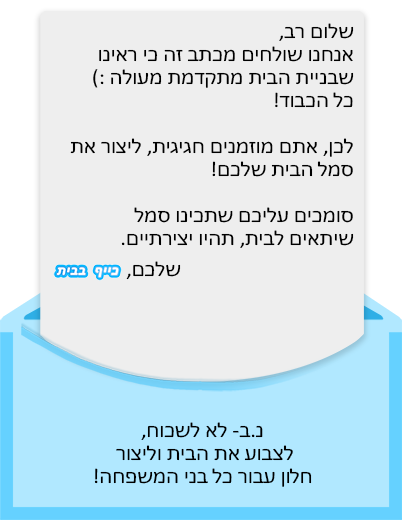
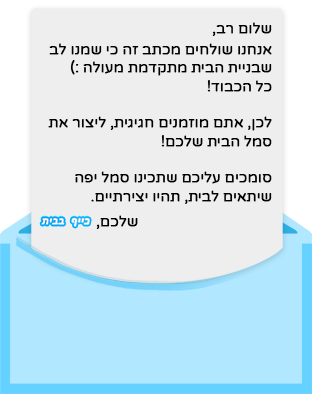
design changes

Changed region(s): [[0.0, 0.0305, 1.0, 0.7614], [0.2308, 0.7919, 0.7788, 0.9442]]

diff --git a/src/views/EditHome.vue b/src/views/EditHome.vue
@@ -1118,7 +1118,10 @@
     </AppDialog>
 
     <AppDialog ref="connectDialog">
+      <span @click="closeConnectPop" class="close-span-top"></span>
+      <img @click="closeConnectPop" class="connect-pic" src="@/assets/img/login-for-publish.png" alt=""/>
       <img @click="login" class="connectBtn" src="@/assets/img/connect-btn.png" alt=""/>
+      <span @click="closeConnectPop" class="close-span-bot"></span>
     </AppDialog>
 
     <AppTutorial ref="firstTutorial">
@@ -1303,9 +1306,7 @@ export default {
     },
     async saveHome(){
       if (!this.$store.getters.getIdToken) {
-        this.$refs.connectDialog.open({ 
-          title: 'כדי לשתף את הבית חובה להתחבר!',
-          content: ' ' })
+        this.$refs.connectDialog.open({hideBtns: true, content: ' ' })
         return
       } 
       else {
@@ -1375,6 +1376,9 @@ export default {
         content: ' '
       });
       this.handleMailMessage();
+    },
+    closeConnectPop(){
+      this.$refs.connectDialog.agree()
     },
     handleMailMessage() {
       if (this.isHomeComplete && !this.mailWasNotified) {
@@ -1589,9 +1593,29 @@ export default {
     margin-bottom: 2vh;
   }
 }
+.close-span-top {
+  // background-color: red;
+  position: fixed;
+  top: 0;
+  left: 0;
+  width: 100vw;
+  height: 32vh;
+}
+.close-span-bot {
+  // background-color: red;
+  position: fixed;
+  bottom: 0;
+  left: 0;
+  width: 100vw;
+  height: 38vh;
+}
 .connectBtn {
   height: 6vh;
-  margin: 17px;
+  margin-top: 15px;
+}
+.connect-pic{
+  height: 14vh;
+  margin-top: 15px;
 }
 .tutorial-top {
   position: fixed;
@@ -1659,8 +1683,9 @@ export default {
 .home-type {
   margin-bottom: 15px;
   .type-title {
-    height: 12vh;
-    margin: 15px;
+    width: 100%;
+    margin-top: 15px;
+    margin-bottom: 15px;
   }
   .home-kind {
     height: 18vh;
@@ -2040,37 +2065,42 @@ input{
 
 .windows-dialog {
   margin-top: 30px;
-  .agree,
-  .decline {
+  // .agree,
+  // .decline {
+  //   position: absolute;
+  //   bottom: -9vw;
+  //   width: 20vw;
+  //   max-width: 60px;
+  // }
+
+  .agree {
     position: absolute;
-    bottom: -9vw;
+    left: 32vw;
+    bottom: -5vh;
+    margin-top: 10px;
     width: 20vw;
     max-width: 60px;
   }
-
-  .agree {
-    right: -8vw;
-  }
-  .decline {
-    left: -8vw;
-  }
+  // .decline {
+  //   left: -8vw;
+  // }
 
   
 
-  @media (min-width: 720px) {
-    .agree,
-    .decline {
-      bottom: -6vw;
-      max-width: 80px;
-    }
+  // @media (min-width: 720px) {
+  //   .agree,
+  //   .decline {
+  //     bottom: -6vw;
+  //     max-width: 80px;
+  //   }
 
-    .agree {
-      right: -4vw;
-    }
-    .decline {
-      left: -4vw;
-    }
-  }
+  //   .agree {
+  //     right: -4vw;
+  //   }
+  //   .decline {
+  //     left: -4vw;
+  //   }
+  // }
 }
 
 .window-name-btns {
@@ -2208,7 +2238,7 @@ input{
   position: relative;
   display: grid;
   height: 40%;
-  justify-content: center;
+  justify-items: center;
   margin-bottom: 21px;
   .family-num-pic{
     width: 100%;
@@ -2249,13 +2279,14 @@ input{
   justify-content: center;
   .name-background {
     width: 90%;
+    margin-bottom: 10px;
   }
   .agree{
     position: absolute;
     bottom: -13vw;
     width: 20vw;
     max-width: 60px;
-    right: -8vw;
+    // right: -8vw;
   }
   input {
     ::-webkit-input-placeholder {
@@ -2291,7 +2322,7 @@ input{
 
   .gallery-img {
     position: absolute;
-    top: 55%;
+    top: 75%;
     left: 40%;
     width: 20%;
   }

diff --git a/src/components/AppDialog.vue b/src/components/AppDialog.vue
@@ -92,6 +92,7 @@ export default {
       this.content = content;
     },
     agree() {
+
       this.resolve(true);
       this.isDialogOpen = false;
     },
@@ -178,19 +179,19 @@ export default {
       width: 100%;
       position: absolute;
       bottom: -9vw;
-      justify-content: flex-end;
+      justify-content: center;
 
       img {
         width: 15vw;
       }
 
       .agree {
-        margin-right: -6vw;
+        margin: 0px;
       }
 
-      .decline {
-        margin-left: -6vw;
-      }
+      // .decline {
+      //   margin-left: -6vw;
+      // }
     }
   }
 }

diff --git a/src/components/AppTutorial.vue b/src/components/AppTutorial.vue
@@ -3,13 +3,6 @@
     <div v-if="isDialogOpen" @click="agree" class="dialog flex justify-center align-center">
         <div class="dialog-content flex align-center flex-column">
         
-            <!-- <div 
-            v-if="sub"
-            class="sub flex align-center"
-            >
-            {{ sub }}
-            </div> -->
-        
             <div
             class="title flex align-center"
             :class="{ 'no-content': !content }"
